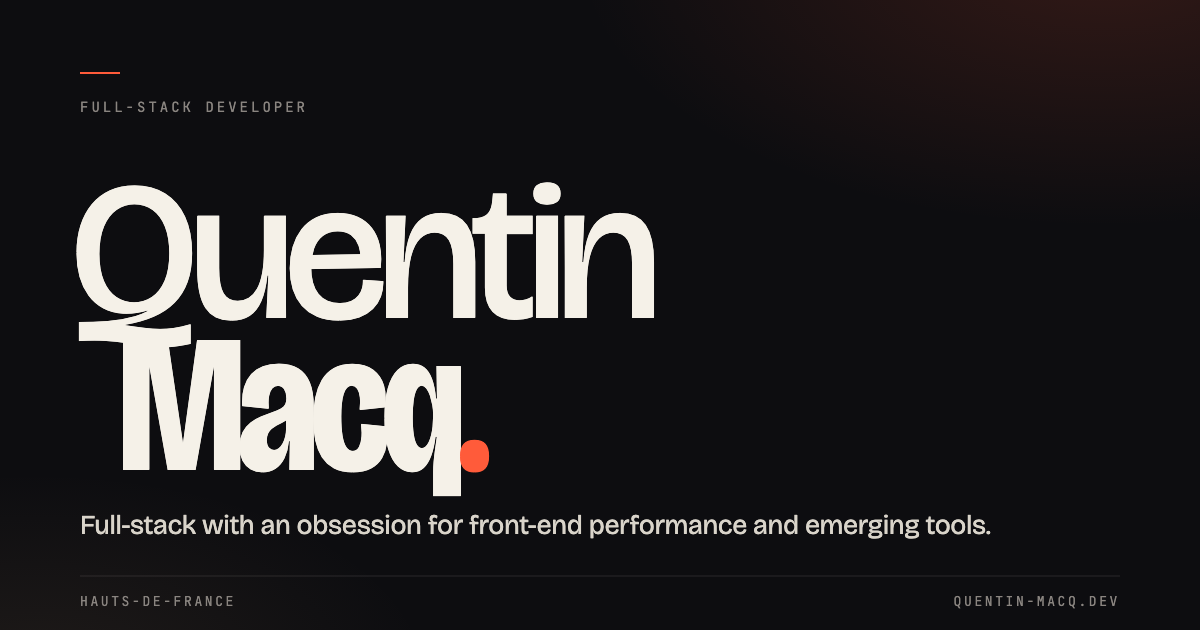
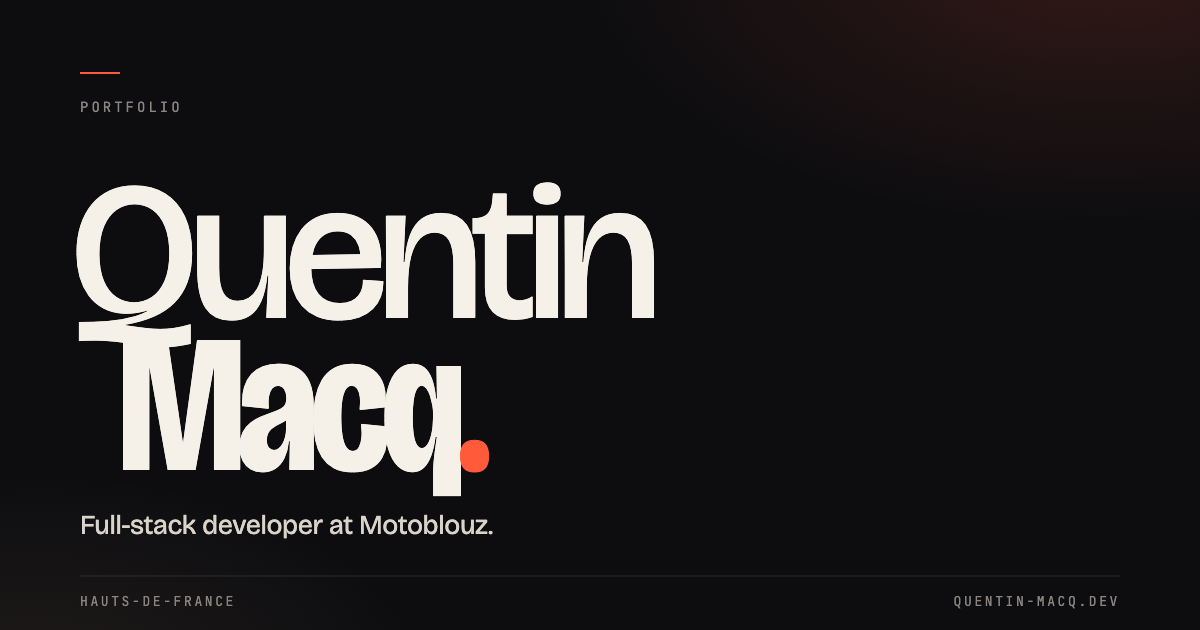
docs: state the role plainly and rename the hero button

Changed region(s): [[0.1542, 0.8143, 0.8325, 0.8746], [0.0617, 0.1508, 0.2467, 0.181]]

diff --git a/scripts/prerender.ts b/scripts/prerender.ts
@@ -26,22 +26,22 @@ interface LocaleMeta {
 const META: Record<Locale, LocaleMeta> = {
   en: {
     description:
-      'Quentin Macq — full-stack developer with an obsession for front-end performance and emerging tools. Nuxt, Vue, TypeScript, Symfony. Hauts-de-France.',
+      'Quentin Macq — full-stack developer at Motoblouz. Nuxt, Vue, TypeScript, Symfony. Hauts-de-France.',
     dir: 'en/',
     image: 'og-en.png',
     ogDescription:
-      'Full-stack developer with an obsession for front-end performance and emerging tools. Nuxt, Vue, TypeScript, Symfony. Hauts-de-France.',
+      'Full-stack developer at Motoblouz. Nuxt, Vue, TypeScript, Symfony. Hauts-de-France.',
     ogLocale: 'en_US',
     path: '/en/',
     title: 'Quentin Macq — Full-stack developer'
   },
   fr: {
     description:
-      'Quentin Macq — développeur full-stack avec une obsession pour la performance front et les nouveaux outils. Nuxt, Vue, TypeScript, Symfony. Hauts-de-France.',
+      'Quentin Macq — développeur full-stack chez Motoblouz. Nuxt, Vue, TypeScript, Symfony. Hauts-de-France.',
     dir: '',
     image: 'og.png',
     ogDescription:
-      'Développeur full-stack avec une obsession pour la performance front et les nouveaux outils. Nuxt, Vue, TypeScript, Symfony. Hauts-de-France.',
+      'Développeur full-stack chez Motoblouz. Nuxt, Vue, TypeScript, Symfony. Hauts-de-France.',
     ogLocale: 'fr_FR',
     path: '/',
     title: 'Quentin Macq — Développeur full-stack'

diff --git a/index.html b/index.html
@@ -36,7 +36,7 @@
 
     <meta
       name="description"
-      content="Quentin Macq — développeur full-stack avec une obsession pour la performance front et les nouveaux outils. Nuxt, Vue, TypeScript, Symfony. Hauts-de-France."
+      content="Quentin Macq — développeur full-stack chez Motoblouz. Nuxt, Vue, TypeScript, Symfony. Hauts-de-France."
     />
     <link rel="canonical" href="https://quentin-macq.dev/" />
 
@@ -46,7 +46,7 @@
     <meta property="og:title" content="Quentin Macq — Développeur full-stack" />
     <meta
       property="og:description"
-      content="Développeur full-stack avec une obsession pour la performance front et les nouveaux outils. Nuxt, Vue, TypeScript, Symfony. Hauts-de-France."
+      content="Développeur full-stack chez Motoblouz. Nuxt, Vue, TypeScript, Symfony. Hauts-de-France."
     />
     <meta property="og:image" content="https://quentin-macq.dev/og.png" />
     <meta property="og:image:type" content="image/png" />
@@ -59,7 +59,7 @@
     <meta name="twitter:title" content="Quentin Macq — Développeur full-stack" />
     <meta
       name="twitter:description"
-      content="Développeur full-stack avec une obsession pour la performance front et les nouveaux outils. Nuxt, Vue, TypeScript, Symfony. Hauts-de-France."
+      content="Développeur full-stack chez Motoblouz. Nuxt, Vue, TypeScript, Symfony. Hauts-de-France."
     />
     <meta name="twitter:image" content="https://quentin-macq.dev/og.png" />
 

diff --git a/src/locales/fr.ts b/src/locales/fr.ts
@@ -66,8 +66,8 @@ export default {
 
   header: {
     'aria-hero': 'Introduction',
-    'cta-work': 'Voir le travail',
-    lede: 'Full-stack avec une obsession pour la performance front et les nouveaux outils.'
+    'cta-work': 'Voir les projets',
+    lede: 'Développeur full-stack chez Motoblouz.'
   },
 
   hobby: {
@@ -169,7 +169,7 @@ export default {
           { label: 'Code', value: 'Open source' }
         ],
         'figure-alt':
-          "Accueil du site en thème sombre : « Quentin Macq. » en grand sur un fond de caractères ASCII, l'accroche et les boutons « Voir le travail » et « Contact ».",
+          'Accueil du site en thème sombre : « Quentin Macq. » en grand sur un fond de caractères ASCII, la ligne « Développeur full-stack chez Motoblouz. » et les boutons « Voir les projets » et « Contact ».',
         'figure-meta': 'En ligne',
         'figure-title': 'quentin-macq.dev',
         lede: 'Le site que vous lisez, conçu et codé de A à Z.',

diff --git a/src/locales/en.ts b/src/locales/en.ts
@@ -66,8 +66,8 @@ export default {
 
   header: {
     'aria-hero': 'Introduction',
-    'cta-work': 'See the work',
-    lede: 'Full-stack with an obsession for front-end performance and emerging tools.'
+    'cta-work': 'See projects',
+    lede: 'Full-stack developer at Motoblouz.'
   },
 
   hobby: {
@@ -169,7 +169,7 @@ export default {
           { label: 'Code', value: 'Open source' }
         ],
         'figure-alt':
-          'Site homepage in dark theme: “Quentin Macq.” in large type over an ASCII character backdrop, the tagline and the “See the work” and “Contact” buttons.',
+          'Site homepage in dark theme: “Quentin Macq.” in large type over an ASCII character backdrop, the line “Développeur full-stack chez Motoblouz.” and the “Voir les projets” and “Contact” buttons.',
         'figure-meta': 'Live',
         'figure-title': 'quentin-macq.dev',
         lede: 'The site you are reading, designed and built from scratch.',

diff --git a/scripts/og.ts b/scripts/og.ts
@@ -13,15 +13,15 @@ interface Card {
 const CARDS: Card[] = [
   {
     file: 'og.png',
-    kicker: 'DÉVELOPPEUR FULL-STACK',
+    kicker: 'PORTFOLIO',
     label: 'Quentin Macq — Développeur full-stack',
-    lede: 'Full-stack avec une obsession pour la performance front et les nouveaux outils.'
+    lede: 'Développeur full-stack chez Motoblouz.'
   },
   {
     file: 'og-en.png',
-    kicker: 'FULL-STACK DEVELOPER',
+    kicker: 'PORTFOLIO',
     label: 'Quentin Macq — Full-stack developer',
-    lede: 'Full-stack with an obsession for front-end performance and emerging tools.'
+    lede: 'Full-stack developer at Motoblouz.'
   }
 ]
 
